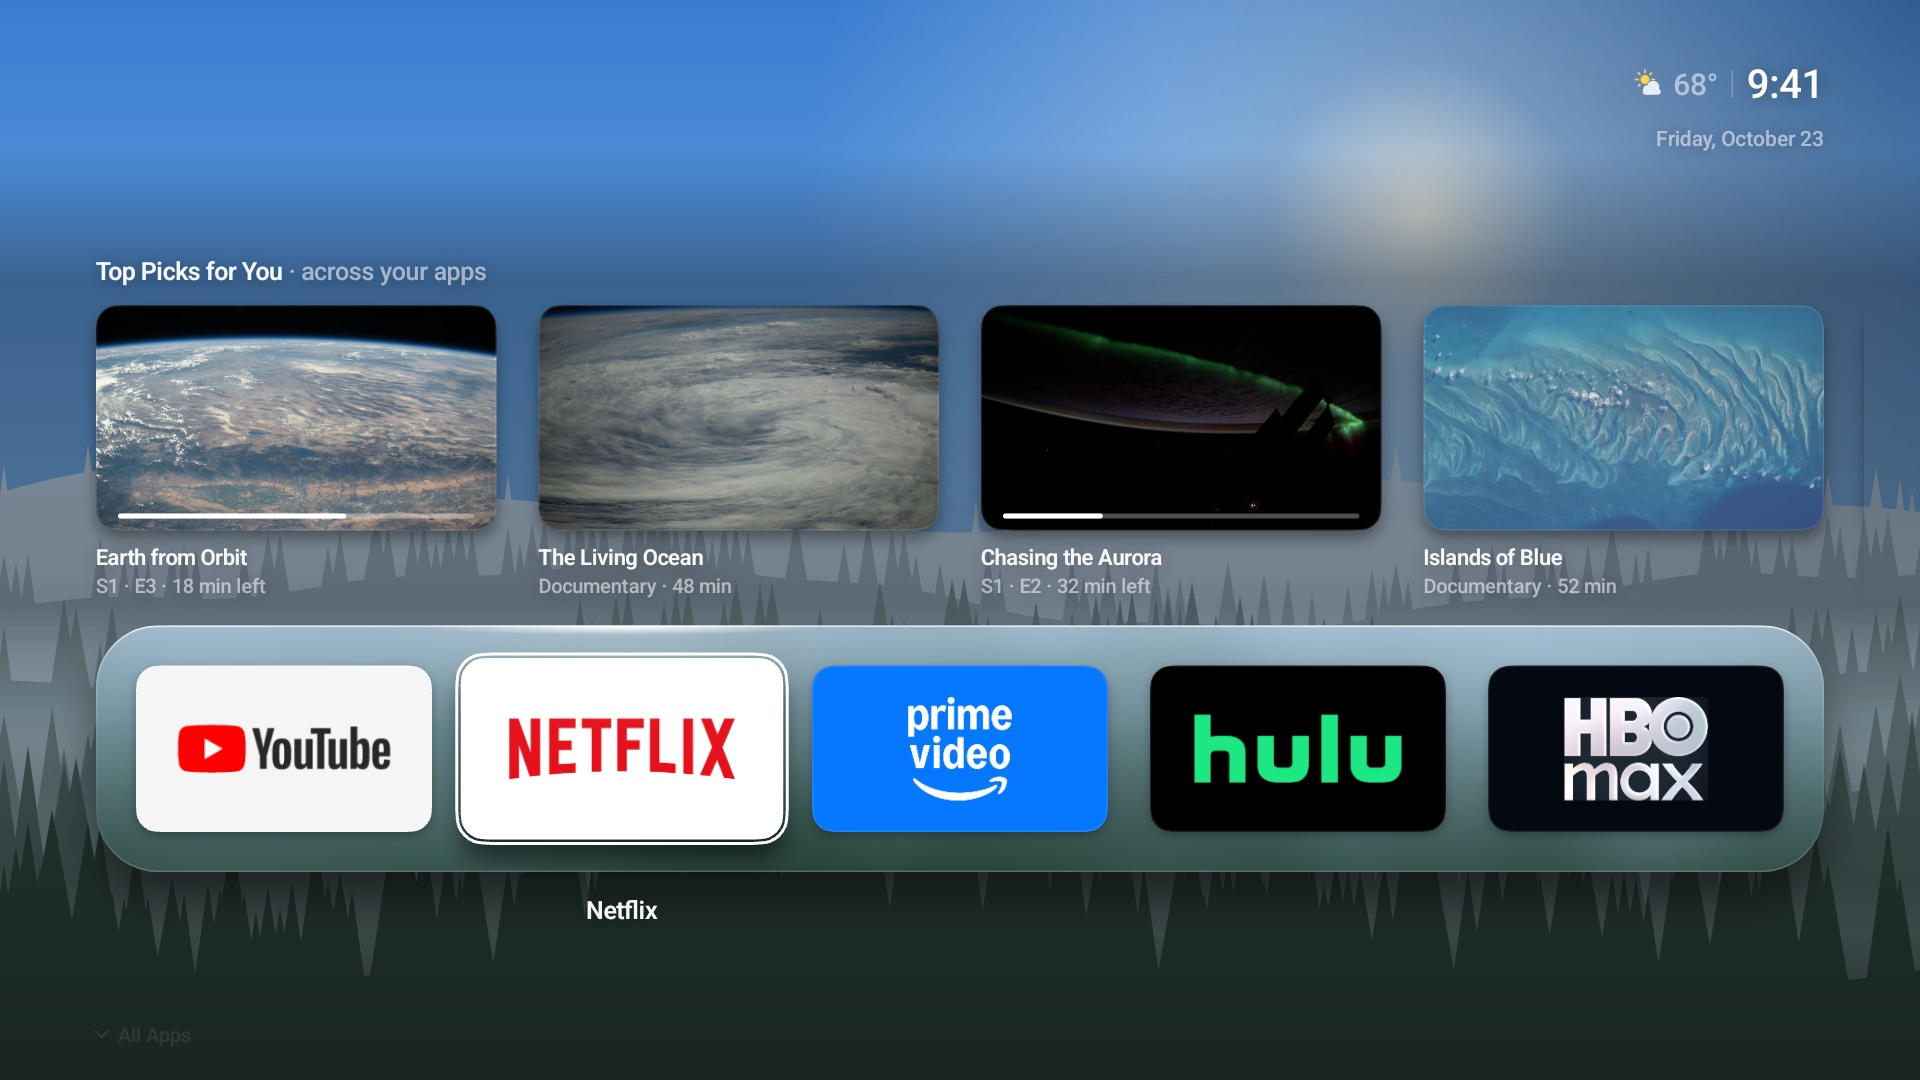
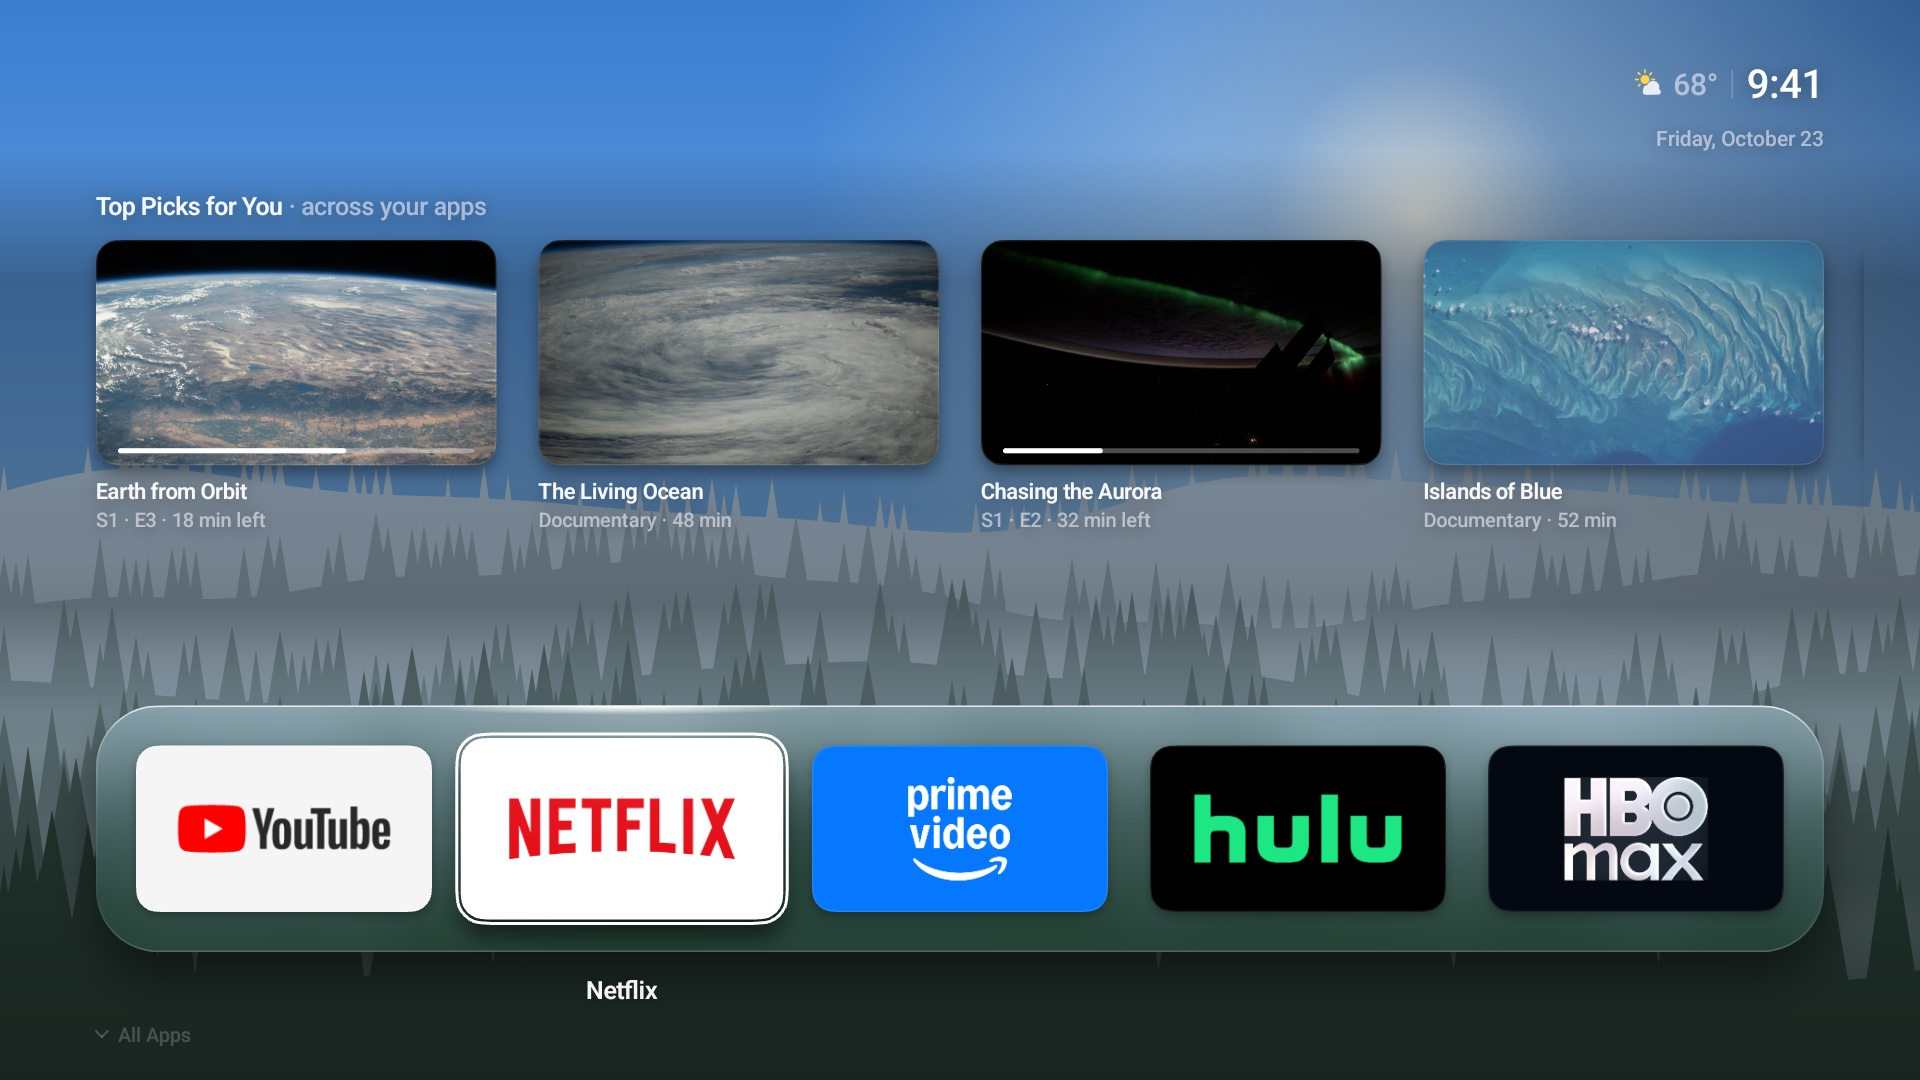
Anchor the dock to the bottom of any screen and the shelf to the top
The home screen scaled by width and assumed a 1080-tall canvas, so the dock
sat at a fixed 872 px from the top and the bottom row could fall off screens
that are not exactly 16:9. Heights now follow the view: the dock's bottom
edge sits 128 px above the real bottom, the Top Shelf hangs from 190 px
under the clock, and All Apps, the menus, the panel and the screensaver
use the same measured height.

diff --git a/app/src/dev/lumen/tv/HomeView.java b/app/src/dev/lumen/tv/HomeView.java
@@ -48,10 +48,13 @@ final class HomeView extends View implements Overlays.Host {
     private static final float EDGE_L = Ui.SAFE_X, EDGE_R = Ui.W - Ui.SAFE_X;
     // Tiles and cards use Apple's 60% corner smoothing; the dock's outline is the tiles' outline grown by PAD
     private static final float R_TILE = 22, TILE_SMOOTH = .6f, R_DOCK = R_TILE + PAD, DOCK_SMOOTH = concentric(R_TILE, TILE_SMOOTH, PAD);
-    private static final float DOCK_BOTTOM = 872, ROW_MAX = 5;
+    // Vertical anchors: the dock sits DOCK_MARGIN above the screen's real bottom edge (room for the focused app's
+    // name and the hint/credit row), the Top Shelf hangs from SHELF_TOP under the clock, and in All Apps the dock
+    // rises to APPS_DOCK_TOP. Heights follow the view, so any TV aspect keeps the dock at the bottom.
+    private static final float DOCK_MARGIN = 128, SHELF_TOP = 190, APPS_DOCK_TOP = 86, DOCK_H = TILE_H + 2 * PAD, ROW_MAX = 5;
     private static final float CARD_W_MAX = 548, CARD_H_MAX = CARD_W_MAX * 9 / 16;
     private float cardW, cardH, shelfTop, cardTop;  // set by layoutShelf() from the Card size setting
-    private static final float GRID_TOP = 1018, GRID_STEP_Y = TILE_H + 84, APPS_SHIFT = 540;
+    private static final float GRID_STEP_Y = TILE_H + 84;
     private static final long HEARTBEAT_MS = 3400;
     private static final long HEARTBEAT_SETTLE_MS = 700;
 
@@ -63,7 +66,7 @@ final class HomeView extends View implements Overlays.Host {
     private final Prefs prefs;
     private final SharedPreferences focusPrefs;
     private final Overlays overlays;
-    private float s = 1;  // screen px per design px
+    private float s = 1, vh = Ui.H;  // screen px per design px; the view's height in design px (1080 at 16:9)
 
     // Data
     private AppStore apps;
@@ -292,6 +295,9 @@ final class HomeView extends View implements Overlays.Host {
 
     @Override protected void onSizeChanged(int w, int h, int ow, int oh) {
         s = w / Ui.W;
+        vh = h / s;
+        overlays.screenHeight(vh);
+        layoutShelf();
         renderScene();
     }
 
@@ -485,7 +491,7 @@ final class HomeView extends View implements Overlays.Host {
     @Override public Bitmap snapshot() {
         Bitmap b = Bitmap.createBitmap(480, 270, Bitmap.Config.ARGB_8888);
         Canvas c = new Canvas(b);
-        c.scale(480 / Ui.W, 270 / Ui.H);
+        c.scale(480 / Ui.W, 270 / vh);
         drawHome(c, SystemClock.uptimeMillis());
         Blur.boxBlur(b, 3, 3);
         return b;
@@ -587,7 +593,7 @@ final class HomeView extends View implements Overlays.Host {
 
     private void drawHome(Canvas c, long now) {
         drawBackground(c);
-        float appsT = Ui.clamp(appsS.x, 0, 1), pageY = -APPS_SHIFT * appsT;
+        float appsT = Ui.clamp(appsS.x, 0, 1), pageY = -appsShift() * appsT;
         c.save();
         c.translate(0, pageY);
         if (appsT < 1) drawShelf(c, 1 - appsT);
@@ -614,7 +620,7 @@ final class HomeView extends View implements Overlays.Host {
     /** A pre-blurred glass fade darkens the top edge as All Apps scrolls underneath the dock. */
     private void drawScrollingTopOverlay(Canvas c, float progress) {
         if (progress <= .001f || deepBlur == null) return;
-        screenRect.set(0, 0, Ui.W, Ui.H);
+        screenRect.set(0, 0, Ui.W, vh);
         int layer = c.saveLayer(0, 0, Ui.W, 270, null);
         bmp.setAlpha(Math.round(215 * progress));
         c.drawBitmap(deepBlur, null, screenRect, bmp);
@@ -664,7 +670,7 @@ final class HomeView extends View implements Overlays.Host {
     private float focusOf(Object key) { Spring sp = focus.get(focusKey(key)); return sp == null ? 0 : sp.x; }
 
     private void drawBackground(Canvas c) {
-        r.set(0, 0, Ui.W, Ui.H);
+        r.set(0, 0, Ui.W, vh);
         if (scene == null) { c.drawColor(Color.BLACK); return; }
         bmp.setAlpha(255);
         c.drawBitmap(scene, null, r, bmp);
@@ -718,7 +724,7 @@ final class HomeView extends View implements Overlays.Host {
     private void drawCredit(Canvas c, float appsT) {
         if (photoCredit == null || appsT > .99f) return;
         creditP.setAlpha(Math.round(Color.alpha(Ui.TEXT_3) * (1 - appsT)));
-        c.drawText(ellipsize(photoCredit, creditP, EDGE_R - EDGE_L - HINT_ROOM), EDGE_R, Ui.H - 38, creditP);  // clears the All Apps hint
+        c.drawText(ellipsize(photoCredit, creditP, EDGE_R - EDGE_L - HINT_ROOM), EDGE_R, vh - 38, creditP);  // clears the All Apps hint
     }
 
     private void drawTopBar(Canvas c) {
@@ -812,7 +818,7 @@ final class HomeView extends View implements Overlays.Host {
         int across = "compact".equals(size) ? 5 : "large".equals(size) ? 3 : 4;  // cards span the dock, edge to edge
         cardW = (DOCK_W - (across - 1) * GAP) / across;
         cardH = cardW * 9 / 16;
-        shelfTop = Math.min(262, DOCK_BOTTOM - TILE_H - 2 * PAD - cardH - 145);
+        shelfTop = Math.min(SHELF_TOP, dockBottom() - DOCK_H - cardH - 145);  // pinned to the top; lifts only on short screens
         cardTop = shelfTop + 50;
     }
 
@@ -824,6 +830,12 @@ final class HomeView extends View implements Overlays.Host {
 
     /** The first recommendation card shares the dock's outer edge. */
     private float shelfLeft() { return EDGE_L; }
+
+    /** The dock's bottom edge: a fixed margin above the bottom of whatever screen this is. */
+    private float dockBottom() { return vh - DOCK_MARGIN; }
+
+    /** How far the page rises in All Apps, so the dock ends up at APPS_DOCK_TOP. */
+    private float appsShift() { return dockBottom() - DOCK_H - APPS_DOCK_TOP; }
 
     /** Bottom row: the All Apps hint on the left edge, the photo credit on the right, never overlapping. */
     private static final float HINT_ROOM = 200;
@@ -875,8 +887,8 @@ final class HomeView extends View implements Overlays.Host {
     private void drawDock(Canvas c, float pageY, float appsT) {
         if (apps == null) return;
         List<AppStore.App> row = apps.row;
-        float dockW = DOCK_W, dockH = TILE_H + 2 * PAD;  // full width between the overscan margins
-        float l = Ui.SAFE_X, t = DOCK_BOTTOM - dockH;
+        float dockW = DOCK_W, dockH = DOCK_H;  // full width between the overscan margins
+        float l = Ui.SAFE_X, t = dockBottom() - dockH;
         dock.set(l, t, l + dockW, t + dockH);
 
         // shadow, then glass: the pre-blurred scene behind the dock, saturated, tinted and lit from above
@@ -885,7 +897,7 @@ final class HomeView extends View implements Overlays.Host {
             Bitmap gb = appsT > 0.5f ? deepBlur : glassBlur;
             BitmapShader gs = shaderFor(gb);
             srcRect.set(0, 0, gb.getWidth(), gb.getHeight());
-            screenRect.set(0, -pageY, Ui.W, Ui.H - pageY);  // the glass shows what is on screen behind it
+            screenRect.set(0, -pageY, Ui.W, vh - pageY);  // the glass shows what is on screen behind it
             m.setRectToRect(srcRect, screenRect, Matrix.ScaleToFit.FILL);
             gs.setLocalMatrix(m);
             glassPaint.setShader(gs);
@@ -945,14 +957,15 @@ final class HomeView extends View implements Overlays.Host {
         List<AppStore.App> rest = apps.rest;
         gridHeadP.setAlpha(Math.round(Color.alpha(Ui.TEXT_2) * alpha));
         c.save();
-        c.clipRect(0, DOCK_BOTTOM + 20, Ui.W, Ui.H + APPS_SHIFT);  // rows scrolling up slide under the dock
-        c.drawText("All Apps", EDGE_L, 966 + 26 - gridScroll.x, gridHeadP);
+        float bottom = dockBottom(), gridTop = bottom + 146, end = vh + appsShift();
+        c.clipRect(0, bottom + 20, Ui.W, end);  // rows scrolling up slide under the dock
+        c.drawText("All Apps", EDGE_L, bottom + 120 - gridScroll.x, gridHeadP);
         int focusedIdx = area == Area.GRID ? gridI : -1;
         for (int pass = 0; pass < 2; pass++) {  // focused tile last, so its shadow lies on top
             for (int i = 0; i < rest.size(); i++) {
                 if ((i == focusedIdx) != (pass == 1)) continue;
-                float x = LEFT + (i % 5) * (TILE_W + GAP), y = GRID_TOP + (i / 5) * GRID_STEP_Y - gridScroll.x;
-                if (y > Ui.H + APPS_SHIFT || y + TILE_H < DOCK_BOTTOM) continue;
+                float x = LEFT + (i % 5) * (TILE_W + GAP), y = gridTop + (i / 5) * GRID_STEP_Y - gridScroll.x;
+                if (y > end || y + TILE_H < bottom) continue;
                 AppStore.App a = rest.get(i);
                 drawTile(c, a, x, y, false, alpha);
                 float f = Ui.clamp(focusOf(a), 0, 1);
@@ -1064,7 +1077,7 @@ final class HomeView extends View implements Overlays.Host {
         float a = (area == Area.ROW && !moving && apps != null && !apps.rest.isEmpty() ? 1 : 0) * Ui.clamp(4.6f - idle, 0, 1) * (1 - appsT);
         if (a <= 0) return;
         hintP.setAlpha(Math.round(Color.alpha(Ui.TEXT_3) * a));
-        float y = Ui.H - 38;
+        float y = vh - 38;
         c.drawText("All Apps", EDGE_L + 22, y, hintP);
         stroke.setShader(null);
         stroke.setStrokeWidth(2.2f);
@@ -1081,7 +1094,7 @@ final class HomeView extends View implements Overlays.Host {
         if (msg == null) return;
         float a = moving ? 1 : Ui.clamp((toastUntil - now) / 300f, 0, 1);
         if (a <= 0) { toast = null; return; }
-        float w = toastP.measureText(msg) + 56, cx = Ui.W / 2, y = Ui.H - 40 - 54;
+        float w = toastP.measureText(msg) + 56, cx = Ui.W / 2, y = vh - 40 - 54;
         r.set(cx - w / 2, y, cx + w / 2, y + 54);
         Shadow.draw(c, r, 27, 16, 8, .4f * a, bmp);
         fill.setShader(null);

diff --git a/app/src/dev/lumen/tv/Screensaver.java b/app/src/dev/lumen/tv/Screensaver.java
@@ -65,7 +65,7 @@ public final class Screensaver extends DreamService {
         private final Paint timeP, lineP, creditP;
         private final Matrix m = new Matrix();
         private LinearGradient shade;
-        private float s = 1;
+        private float s = 1, vh = Ui.H;  // vh: the view's height in design px
         private long textMinute = -1;
         private String cachedTime = "", cachedLine = "", textDescription;
         private int textTemp = Integer.MIN_VALUE;
@@ -123,7 +123,8 @@ public final class Screensaver extends DreamService {
 
         @Override protected void onSizeChanged(int w, int h, int ow, int oh) {
             s = w / Ui.W;
-            shade = new LinearGradient(0, Ui.H, 0, Ui.H * .45f, Color.argb(150, 0, 0, 0), Color.TRANSPARENT, Shader.TileMode.CLAMP);
+            vh = h / s;
+            shade = new LinearGradient(0, vh, 0, vh * .45f, Color.argb(150, 0, 0, 0), Color.TRANSPARENT, Shader.TileMode.CLAMP);
             load();
         }
 
@@ -179,7 +180,7 @@ public final class Screensaver extends DreamService {
             c.save();
             c.scale(s, s);
             fill.setShader(shade);
-            c.drawRect(0, 0, Ui.W, Ui.H, fill);
+            c.drawRect(0, 0, Ui.W, vh, fill);
             fill.setShader(null);
             drawText(c, now);
             c.restore();
@@ -220,7 +221,7 @@ public final class Screensaver extends DreamService {
                 textMinute = minute; textTemp = weather.temp; textDescription = weather.description; textWeather = wx;
             }
 
-            float x = right ? Ui.W - 120 : 120, timeBase = top ? 96 + 150 * .73f : Ui.H - 104 - 48;
+            float x = right ? Ui.W - 120 : 120, timeBase = top ? 96 + 150 * .73f : vh - 104 - 48;
             Paint.Align al = right ? Paint.Align.RIGHT : Paint.Align.LEFT;
             timeP.setTextAlign(al);
             lineP.setTextAlign(al);
@@ -232,7 +233,7 @@ public final class Screensaver extends DreamService {
             if (credit != null) {
                 creditP.setTextAlign(right ? Paint.Align.LEFT : Paint.Align.RIGHT);
                 creditP.setAlpha(Math.round(Color.alpha(Ui.TEXT_3) * a));
-                c.drawText(credit, right ? Ui.SAFE_X : Ui.W - Ui.SAFE_X, top ? Ui.H - 40 : 64, creditP);
+                c.drawText(credit, right ? Ui.SAFE_X : Ui.W - Ui.SAFE_X, top ? vh - 40 : 64, creditP);
             }
         }
     }

diff --git a/app/src/dev/lumen/tv/Overlays.java b/app/src/dev/lumen/tv/Overlays.java
@@ -85,6 +85,7 @@ final class Overlays {
     private final android.text.TextPaint ellipsizeP = new android.text.TextPaint();
     private final Paint titleP, nameP, subP, rowP, valueP, headP, noteP;
     private final RectF pillRect = new RectF(), r = new RectF(), src = new RectF(), screen = new RectF(0, 0, Ui.W, Ui.H);
+    private float screenH = Ui.H;  // the home view's height in design px
     private final Matrix m = new Matrix();
     private Bitmap shaderBitmap;
     private BitmapShader shader;
@@ -104,6 +105,9 @@ final class Overlays {
         headP = Ui.text(Ui.semibold, 20, Ui.TEXT_3, 0);
         noteP = Ui.text(Ui.medium, 20, Ui.TEXT_2, -.005f);
     }
+
+    /** Follows the home view's real height, so menus center and panels fit on any screen. */
+    void screenHeight(float h) { screenH = h; screen.set(0, 0, Ui.W, h); }
 
     boolean isOpen() { return mode != NONE; }
 
@@ -351,7 +355,7 @@ final class Overlays {
         c.drawRect(screen, fill);
 
         final float header = 24 + 56 + 24;  // 24 · app tile (56) · 24, then a hairline
-        float w = 560, h = header + 1 + 8 + ROW * items.size() + PAD, cx = Ui.W / 2, cy = Ui.H * .42f + (1 - t) * 12;
+        float w = 560, h = header + 1 + 8 + ROW * items.size() + PAD, cx = Ui.W / 2, cy = screenH * .42f + (1 - t) * 12;
         float sc = .95f + .05f * t;
         c.save();
         c.scale(sc, sc, cx, cy);
@@ -418,7 +422,7 @@ final class Overlays {
         }
         float contentH = y + PAD;
         float w = 600, right = Ui.BAR_RIGHT, x = right - w, top = Ui.BAR_TOP + Ui.BAR_H + Ui.DROPDOWN_GAP;
-        float h = Math.min(contentH, Ui.H - 48 - top), bottom = top + h;
+        float h = Math.min(contentH, screenH - 48 - top), bottom = top + h;
 
         if (!rows.isEmpty()) {  // keep the focused row in view
             float rowTop = ys[rowI], rowBottom = rowTop + ROW, visible = h - PAD;

diff --git a/docs/design/DESIGN.md b/docs/design/DESIGN.md
@@ -41,8 +41,8 @@ a browser. The arrow keys act as the D-pad, Enter as OK (hold it for the tile me
 | Safe area | 96 px left/right, 64 px top/bottom (TV overscan); content aligns to x = 185 px |
 | Clock | Top-right, its right edge (and the date's) on the dock's outer right edge, 40 px, Inter Medium, −2% tracking, tabular figures, 95% white. Optional date below, 21 px, 62% white |
 | Weather | Left of the clock, separated by a 1.5 px hairline: a color glyph (34 px) and the temperature, 30 px Medium, 62% white |
-| Top Shelf | Heading at y = 262 px: **Top Picks for You**, 25 px SemiBold, then “across your apps” in 62% white. Cards span the dock edge to edge, so the first card and the heading align with the dock's outer edge: Standard 4 across (400×225 px), Compact 5, Large 3; radius 22, gap 42, with the episode/time line set flush with the card's left edge |
-| Dock | Glass (see Materials), full width between the 96 px overscan margins, bottom edge at 81% of screen height. Padding 40 px, tile gap 42 px, so five tiles fill it exactly. Tiles and cards use Apple's 60% corner smoothing; the dock (radius 62 = tile radius + padding) and the focus ring take whatever smoothing makes their corners begin exactly a padding further along the edge, so every outline runs parallel to the one inside it. Everything shares the dock's outer edges (96 and 1824 px): the shelf heading and cards, the All Apps heading and the All Apps hint start on the left one; the clock, date, photo credit and last card end on the right one, where the focused clock pill also ends. Top Shelf cards are clipped to the dock's width |
+| Top Shelf | Pinned to the top: heading at y = 190 px, just under the clock and date (it lifts only on screens too short to fit it above the dock): **Top Picks for You**, 25 px SemiBold, then “across your apps” in 62% white. Cards span the dock edge to edge, so the first card and the heading align with the dock's outer edge: Standard 4 across (400×225 px), Compact 5, Large 3; radius 22, gap 42, with the episode/time line set flush with the card's left edge |
+| Dock | Glass (see Materials), full width between the 96 px overscan margins, bottom edge 128 px above the screen's real bottom edge (room for the focused app's name and the All Apps hint and credit row). Heights follow the TV's actual screen, not a fixed 1080, so the dock stays at the bottom on any aspect ratio; in All Apps it rises to 86 px from the top. Padding 40 px, tile gap 42 px, so five tiles fill it exactly. Tiles and cards use Apple's 60% corner smoothing; the dock (radius 62 = tile radius + padding) and the focus ring take whatever smoothing makes their corners begin exactly a padding further along the edge, so every outline runs parallel to the one inside it. Everything shares the dock's outer edges (96 and 1824 px): the shelf heading and cards, the All Apps heading and the All Apps hint start on the left one; the clock, date, photo credit and last card end on the right one, where the focused clock pill also ends. Top Shelf cards are clipped to the dock's width |
 | Tiles | 16:9, radius 22 px. Medium 296×166.5 px (default, five across), Small 232×130 (six), Large 376×211 (four) |
 | Focus | A crisp white 3 px focus ring, with a 2.5 px gap and no glow or dark edge on apps and recommendation cards, plus scale 1.09 (cards 1.07) over 240 ms, deep soft shadow and a low-contrast, static top-light sheen. Focused tiles and cards add a softly eased 0.4% double-beat pulse every 3.4 s; it starts only after D-pad navigation. Home restores stable focus by app/content identity at rest, without a zoom replay or entry pulse. Focus springs are critically damped. Reduced motion and open menus pause it. The dock's specular highlight slides to sit above the focused tile |
 | Label | Focused tile only (default). 25 px SemiBold, 22 px under the dock |
